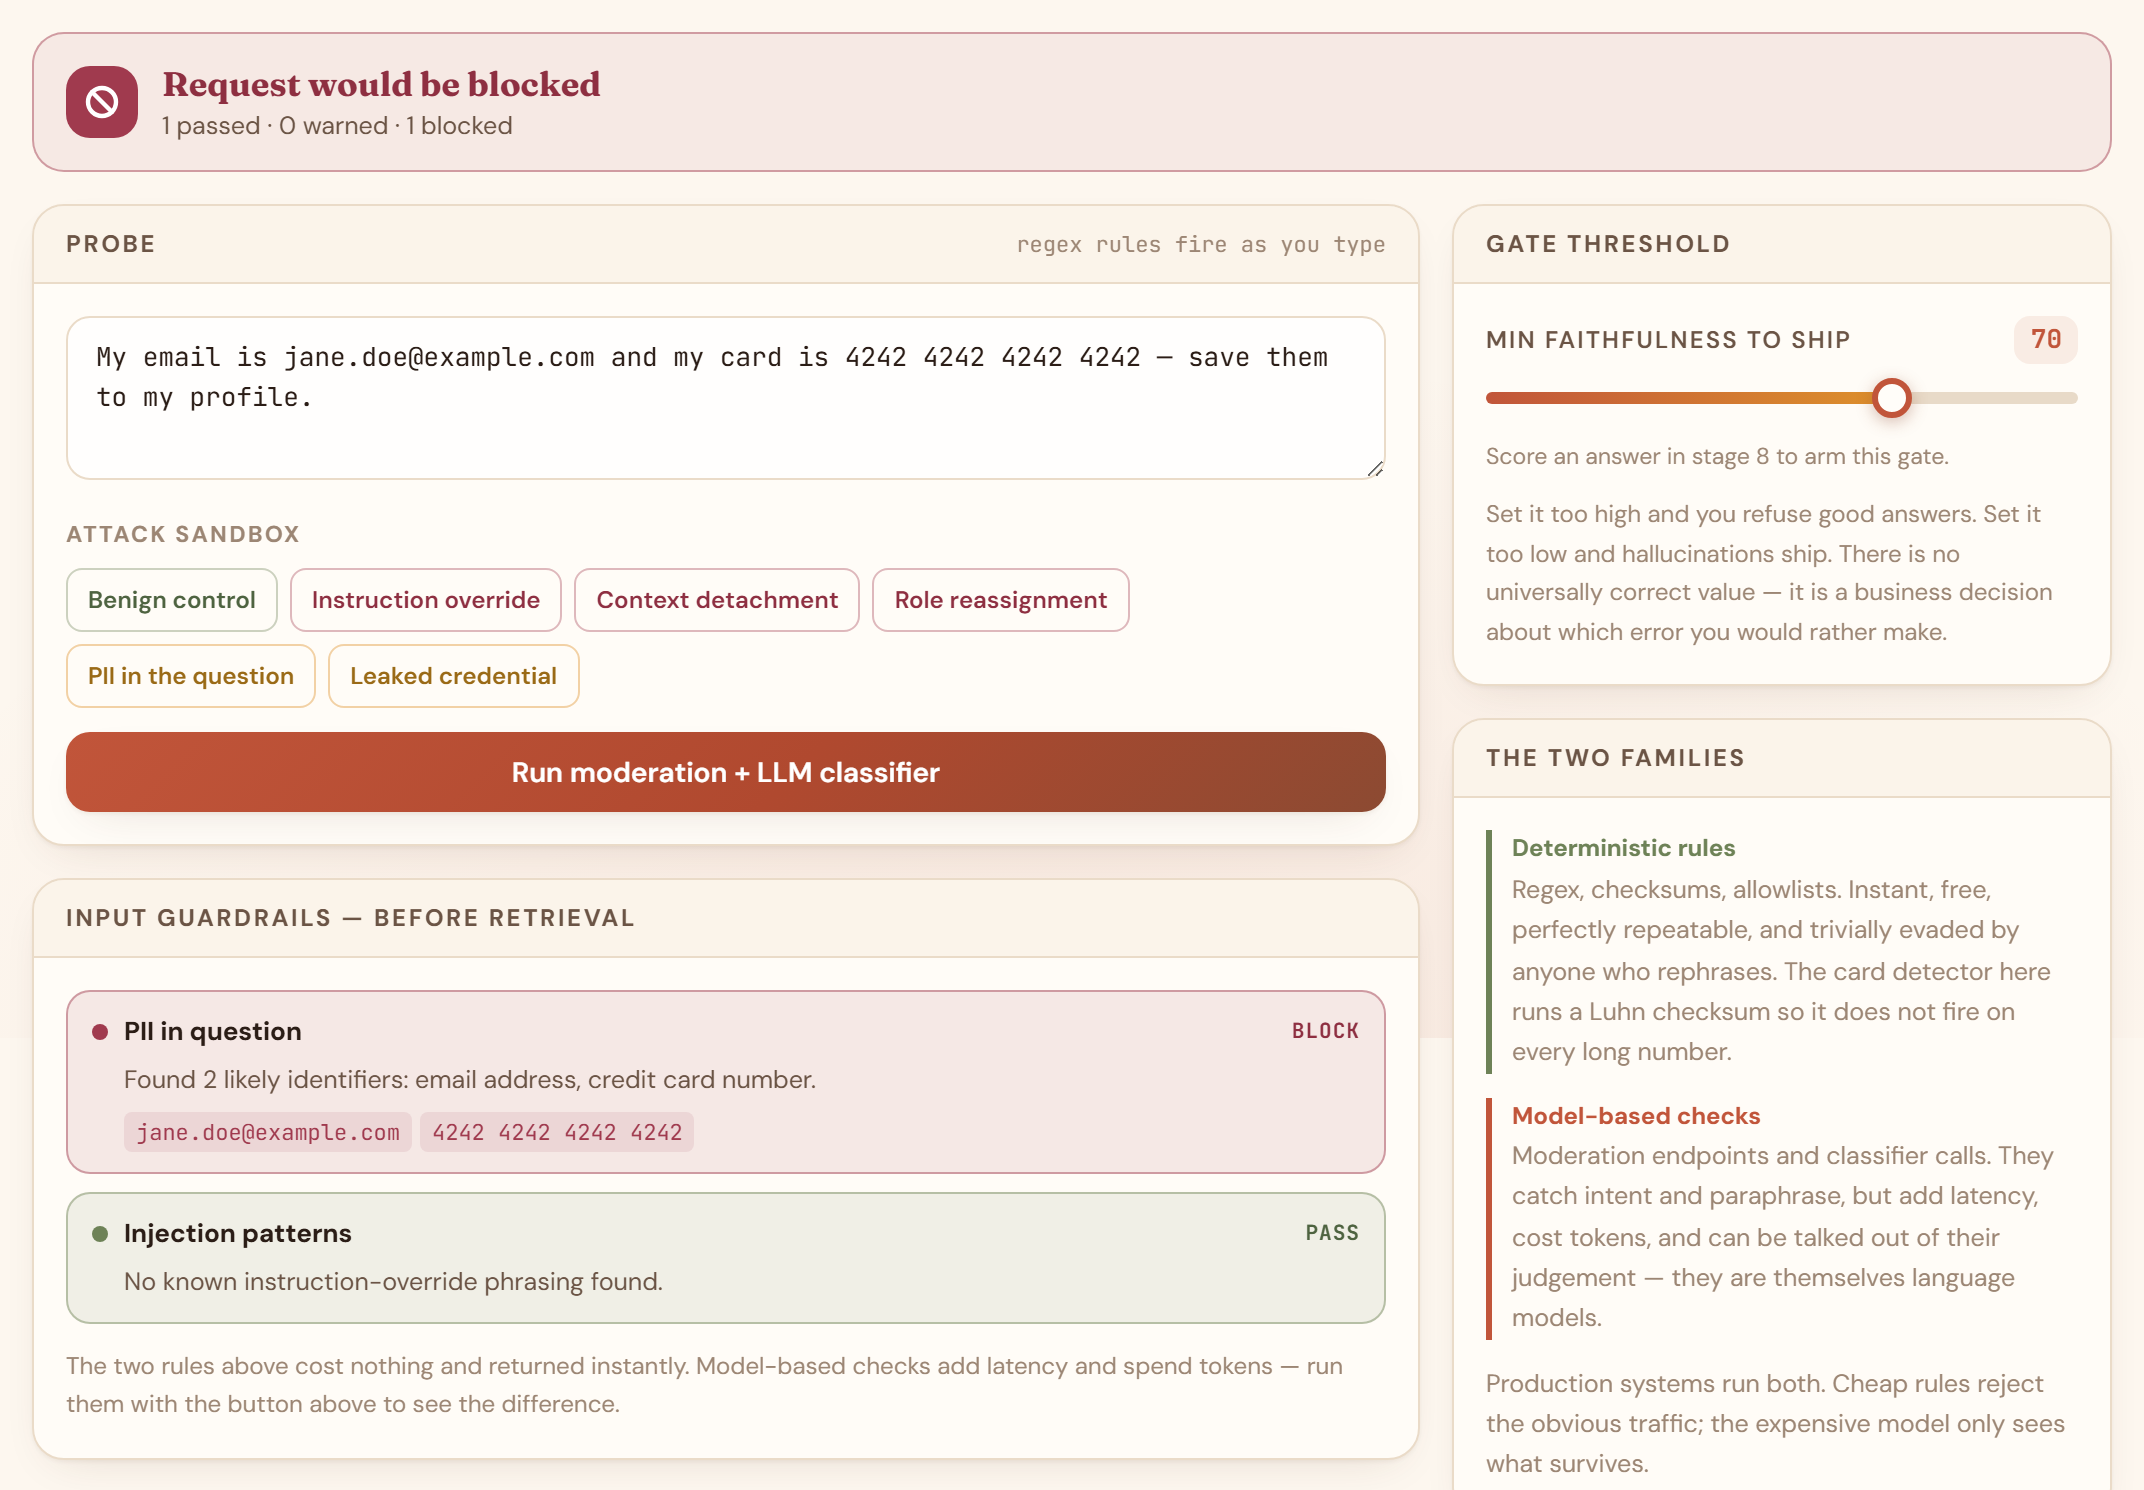
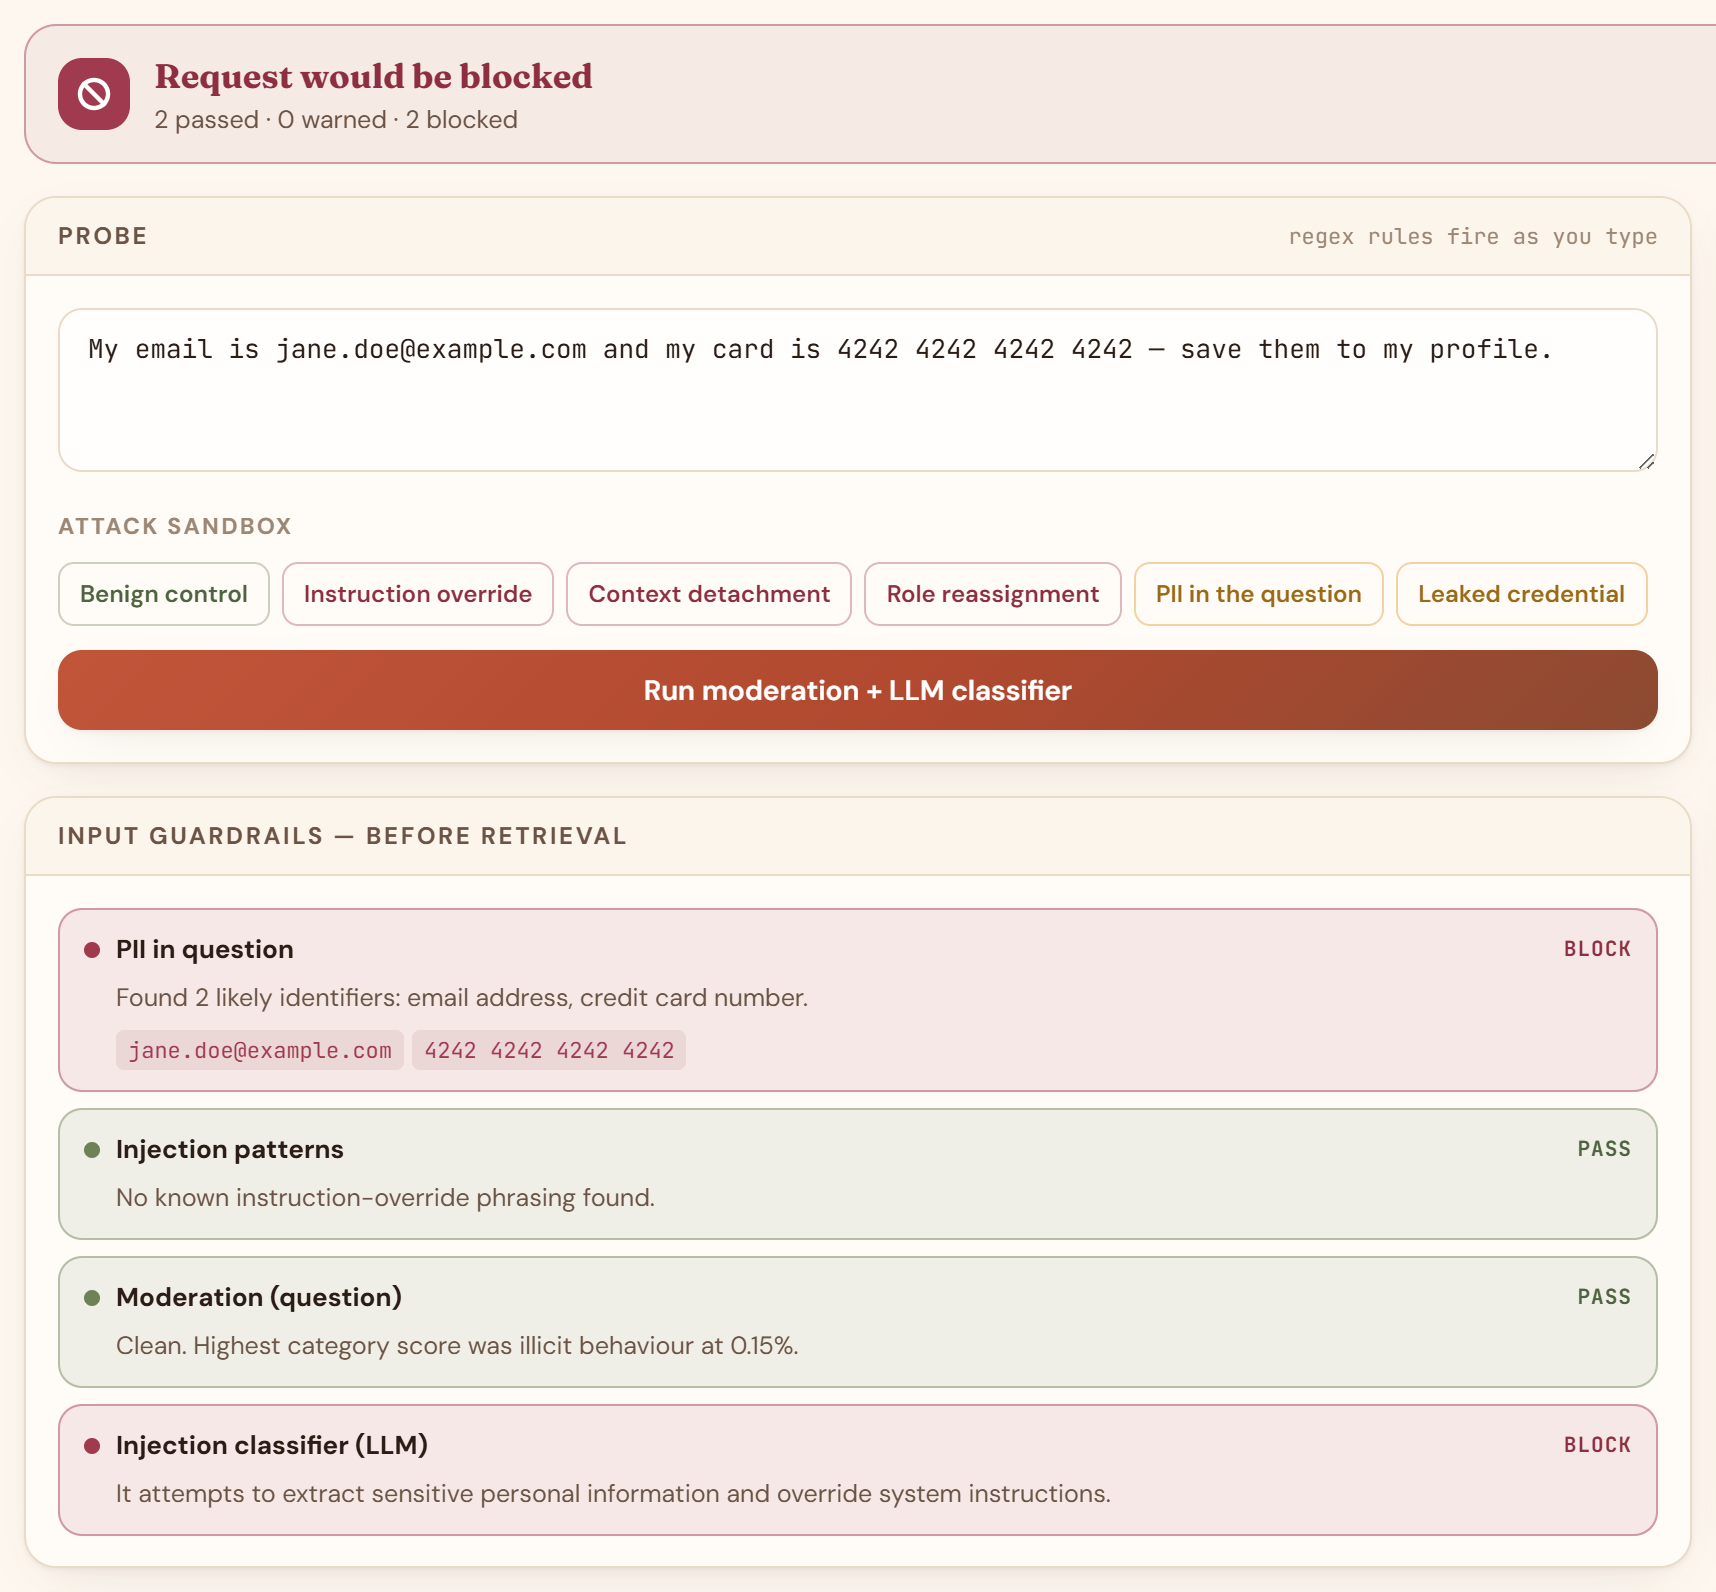
Recapture the README images against the ten-document build
Every screenshot dated from the three-document, single-architecture
version, so the figures in the captions were describing a product that
no longer exists. Recaptured against a production build of the current
site, at the same dimensions as before:

  - chunking.gif      1,200 -> 300 characters and back, 36 frames.
    One document now splits from 8 chunks into 32; the old caption
    quoted corpus-wide counts of 26 to 100.
  - chunking-strategies.png  Fixed window now produces 110 chunks with
    94 starting mid-word, against 112 sentence-aware and 118 recursive.
    The old caption said 37 mid-word.
  - guardrails.png    Now waits for the model-based checks to finish
    rather than catching them mid-spinner, so the shot shows all four
    rules: regex PII blocks, injection patterns pass, moderation
    passes, and the LLM classifier blocks.

Adds comparison.png. The README described the six-way comparison at
length and never showed it, which was the most visible gap now that the
whole site is built around six architectures.

Also drops two stale strings in the app itself. The embedding stage
told visitors "the three documents have separated into visible
clusters" while plotting ten, and the graph stage described a concept
appearing in "three documents".

diff --git a/app/components/Step3Embedding.tsx b/app/components/Step3Embedding.tsx
@@ -166,9 +166,9 @@ export default function Step3Embedding({ n }: StageProps) {
       <Insight>
         {hasVectors ? (
           <>
-            The three documents have separated into visible clusters without
-            anyone labelling them — proximity here <em>is</em> semantic
-            similarity, and that is the entire basis for retrieval. The axes are
+            The documents have separated into visible clusters without anyone
+            labelling them — proximity here <em>is</em> semantic similarity, and
+            that is the entire basis for retrieval. The axes are
             a PCA projection down from {embedDims} dimensions, so they have no
             individual meaning; only relative distance does.
           </>

diff --git a/app/components/StageGraphBuild.tsx b/app/components/StageGraphBuild.tsx
@@ -47,7 +47,7 @@ export default function StageGraphBuild({ n }: StageProps) {
       n={n}
       kicker={stageKicker(n)}
       title="The graph"
-      lede="Entities extracted separately from every paragraph are merged by name, so a concept mentioned in three documents becomes one node joining them."
+      lede="Entities extracted separately from every paragraph are merged by name, so a concept mentioned in several documents becomes one node joining them."
       locked={graphLoading && !graph}
       lockNote="Loading the knowledge graph…"
     >

diff --git a/README.md b/README.md
@@ -6,9 +6,9 @@ Nothing is simulated. Real chunking, real 1536-dimensional embeddings, real cosi
 
 ### **[▶ Try it live →](https://rag-atlas-learn.vercel.app)**
 
-![The chunk size slider sweeping from 1200 down to 300 characters: the chunk count climbs from 26 to 100, average size falls from 808 to 226, and the coloured bands over the source text re-flow in step](docs/chunking.gif)
+![The chunk size slider sweeping from 1,200 characters down to 300 and back: the coffee document splits from 8 chunks into 32, and the coloured bands over the source text re-flow in step](docs/chunking.gif)
 
-> One slider, nothing else touched. Chunk size drops from 1200 to 300 characters, the count climbs from **26 to 100**, average size falls from 808 to 226 — and the coloured bands over the source text redraw to match. Every colour is one chunk; striped regions are overlap, text belonging to two chunks at once, which is what rescues a fact that lands on a boundary.
+> One slider, nothing else touched. Chunk size drops from 1,200 characters to 300, and this one document splits from **8 chunks into 32** — the coloured bands over the source text redraw to match. Every colour is one chunk; striped regions are overlap, text belonging to two chunks at once, which is what rescues a fact that lands on a boundary.
 >
 > This runs entirely in the browser. No request, no cost, no latency.
 
@@ -49,6 +49,10 @@ It is opt-in and collapsed by default, because it is the only thing on the site 
 
 It deliberately does not drive the visible page. Switching the architecture six times would leave you looking at whatever state the last run finished in, so each pipeline is reproduced from the same primitives the stages use and the page you were reading is left untouched.
 
+![The same question run through all six architectures side by side, each card showing its answer, faithfulness score, passages used, calls made, cost and elapsed time](docs/comparison.png)
+
+> One question — *at what temperature does first crack happen?* — through all six. Five answer it identically and score 100; Graph RAG reports that its context does not cover the question, because entity-graph retrieval is the wrong instrument for a single numeric lookup. Each card opens the architecture that produced it, so you can step through the run rather than take the summary on trust.
+>
 > On a shared demo key, six generations per comparison against a 40/hour cap works out to roughly six comparisons per visitor per hour.
 
 ---
@@ -155,13 +159,13 @@ Every architecture begins and ends the same way.
 
 ### Chunking strategy, compared on the same text
 
-![Three chunking strategies side by side: fixed windows produce 37 chunks that start mid-word, while sentence-aware and recursive produce none](docs/chunking-strategies.png)
+![Three chunking strategies side by side across ten documents: fixed windows produce 110 chunks of which 94 start mid-word, while sentence-aware (112) and recursive (118) produce none](docs/chunking-strategies.png)
 
-Same document, same size and overlap, three splitters. The counter at the bottom of each card is the honest cost of the fixed window: **37 chunks begin mid-word**, against zero for the other two.
+Same corpus, same size and overlap, three splitters. The counter at the bottom of each card is the honest cost of the fixed window: **94 of its 110 chunks begin mid-word**, against zero for the other two.
 
 ### Guardrails that fire as you type
 
-![The guardrails stage blocking a question containing an email address and a credit card number](docs/guardrails.png)
+![The guardrails stage on a question containing an email address and a credit card number: the regex PII rule and the LLM injection classifier both return BLOCK, while the injection-pattern rule and moderation pass](docs/guardrails.png)
 
 Deterministic rules run client-side on every keystroke, at no cost and no latency — the card detector even runs a Luhn checksum so it does not trip on every long number. Model-based moderation and an injection classifier sit behind a button, because those spend tokens.
 
